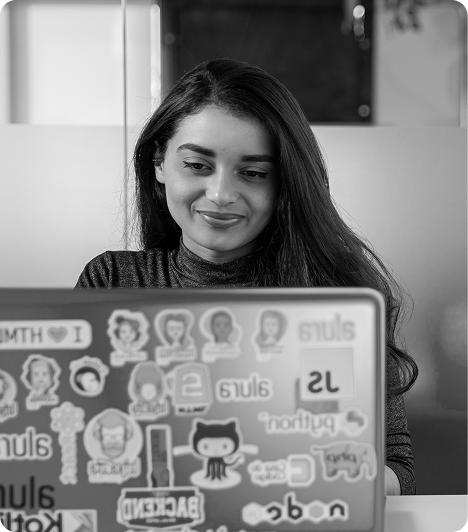
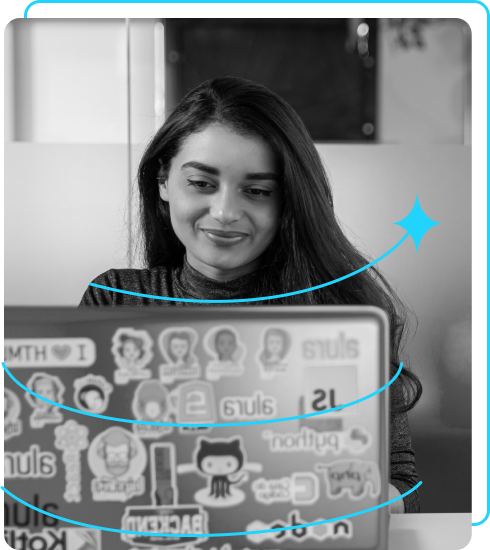
Actualizando css

diff --git a/index.html b/index.html
@@ -3,16 +3,24 @@
 <head>
     <meta charset="UTF-8">
     <meta name="viewport" content="width=device-width, initial-scale=1.0">
+    <link rel="stylesheet" href="style.css">
+
+    <link rel="preconnect" href="https://fonts.googleapis.com">
+    <link rel="preconnect" href="https://fonts.gstatic.com" crossorigin>
+
+    <link href="https://fonts.googleapis.com/css2?family=Krona+One&family=Montserrat:ital,wght@0,100..900;1,100..900&display=swap" rel="stylesheet">
+
     <title>Poryecto</title>
 </head>
 <body>
-    <head>titutlo</head>
+    <!-- <head>titutlo</head> -->
     <main>
-        <h1>Eleve tu negocio digital a otro nivel con un Front-end de calidad!</h1>
+        <h1>Eleve tu negocio digital a otro nivel <strong>con un Front-end de calidad!</strong> </h1>
         <p>¡Hola! Soy Ana García, desarrolladora Front-end con especialización en React, HTML y CSS. Ayudo a pequeños negocios y diseñadores a llevar a cabo buenas ideas. ¿Hablamos?</p>
-        <img src="https://via.placeholder.com/150" alt="mujer con laptop">
         <button><a href="https://www.instagram.com/" target="_blank" >Instagram</a></button>
         <button><a href="https://github.com/" target="_blank">GitHub</a></button>
+        <img src="assets/Rectangle-47.png" alt="Imgagen de Ana García trabajando">
+
     </main>
     
 </body>

diff --git a/style.css b/style.css
@@ -1,0 +1,44 @@
+.krona-one-regular {
+    font-family: "Krona One", sans-serif;
+    font-weight: 400;
+    font-style: normal;
+}
+
+.montserrat-100 {
+    font-family: "Montserrat", sans-serif;
+    font-optical-sizing: auto;
+    font-weight: 100;
+    font-style: normal;
+}
+/* @import url('https://fonts.googleapis.com/css2?family=Krona+One&display=swap'); */
+body {
+    background-color: rgb(0, 0, 0);
+    /* margin: 0; */
+    /* padding: 0; */
+}
+h1 {
+    color: white;
+    font-family: "Krona One", sans-serif;
+    text-align: center;
+
+}
+strong {
+    color: #22D4FD;
+}
+p {
+    color: white;
+    font-family: 'Montserrat', serif;
+    text-align: justify;
+}
+button {
+    background-color: #22D4FD;
+    color: white;
+    border: 3px solid wheat;
+    padding: 10px 20px;
+    text-align: center;
+    text-decoration: none;
+    display: inline-block;
+    font-size: 20px;
+    margin: 4px 2px;
+    cursor: pointer;
+}
